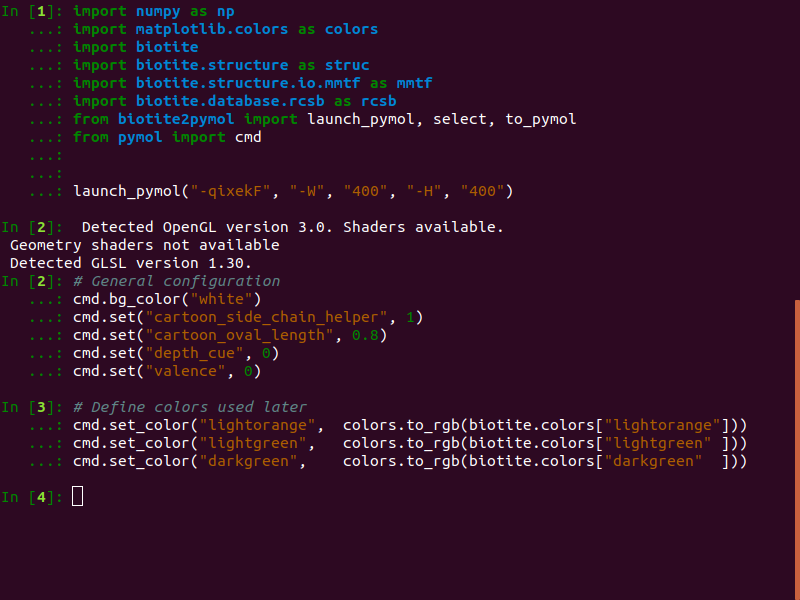
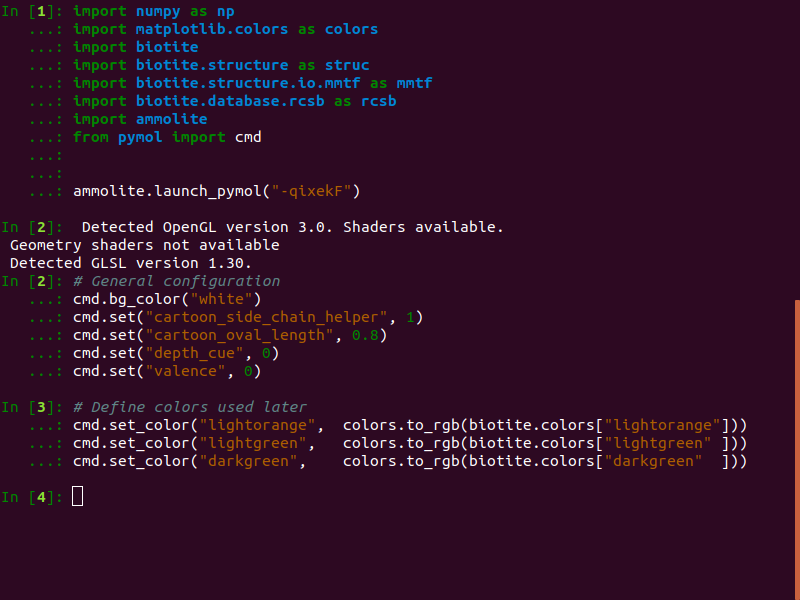
Updated demo

diff --git a/doc/demo/demo.py b/doc/demo/demo.py
@@ -8,8 +8,7 @@ import ammolite
 from pymol import cmd
 
 
-#ammolite.launch_pymol("-qixekF")
-ammolite.launch_pymol("-qixkF", "-W", "400", "-H", "400")
+ammolite.launch_pymol("-qixekF")
 
 #----------------------------------------------------------------------#
 
